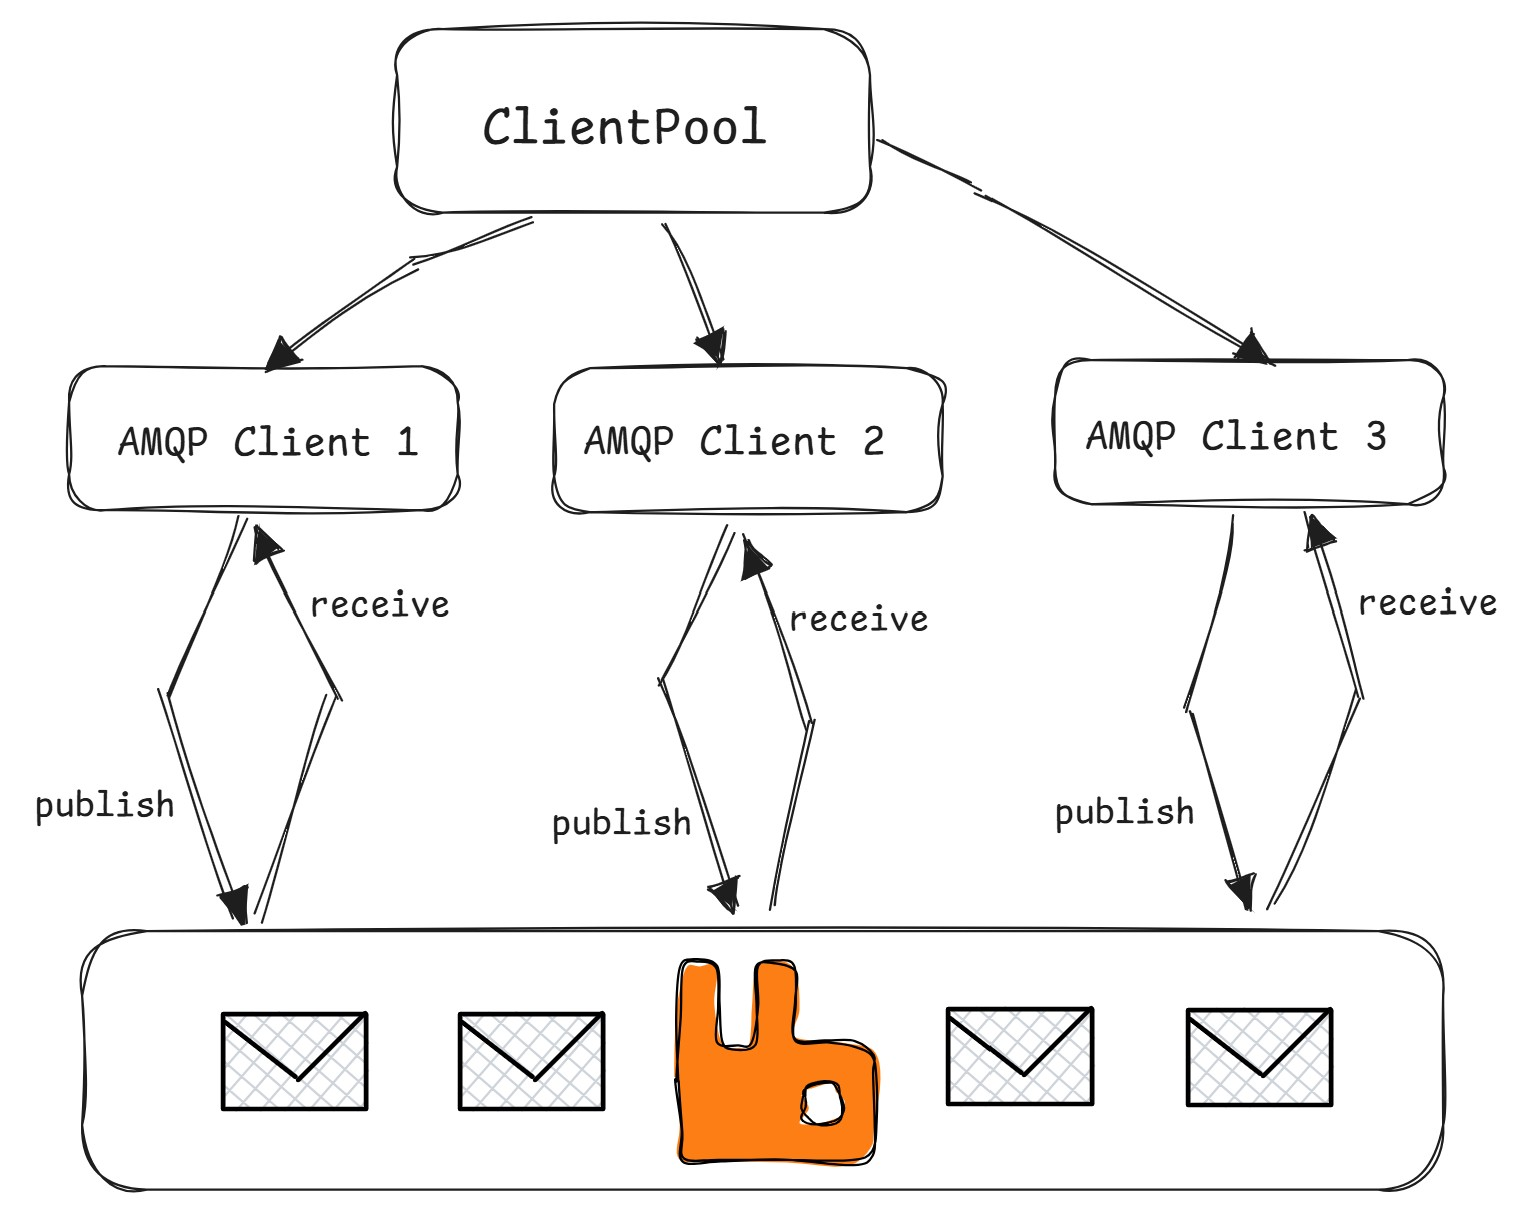
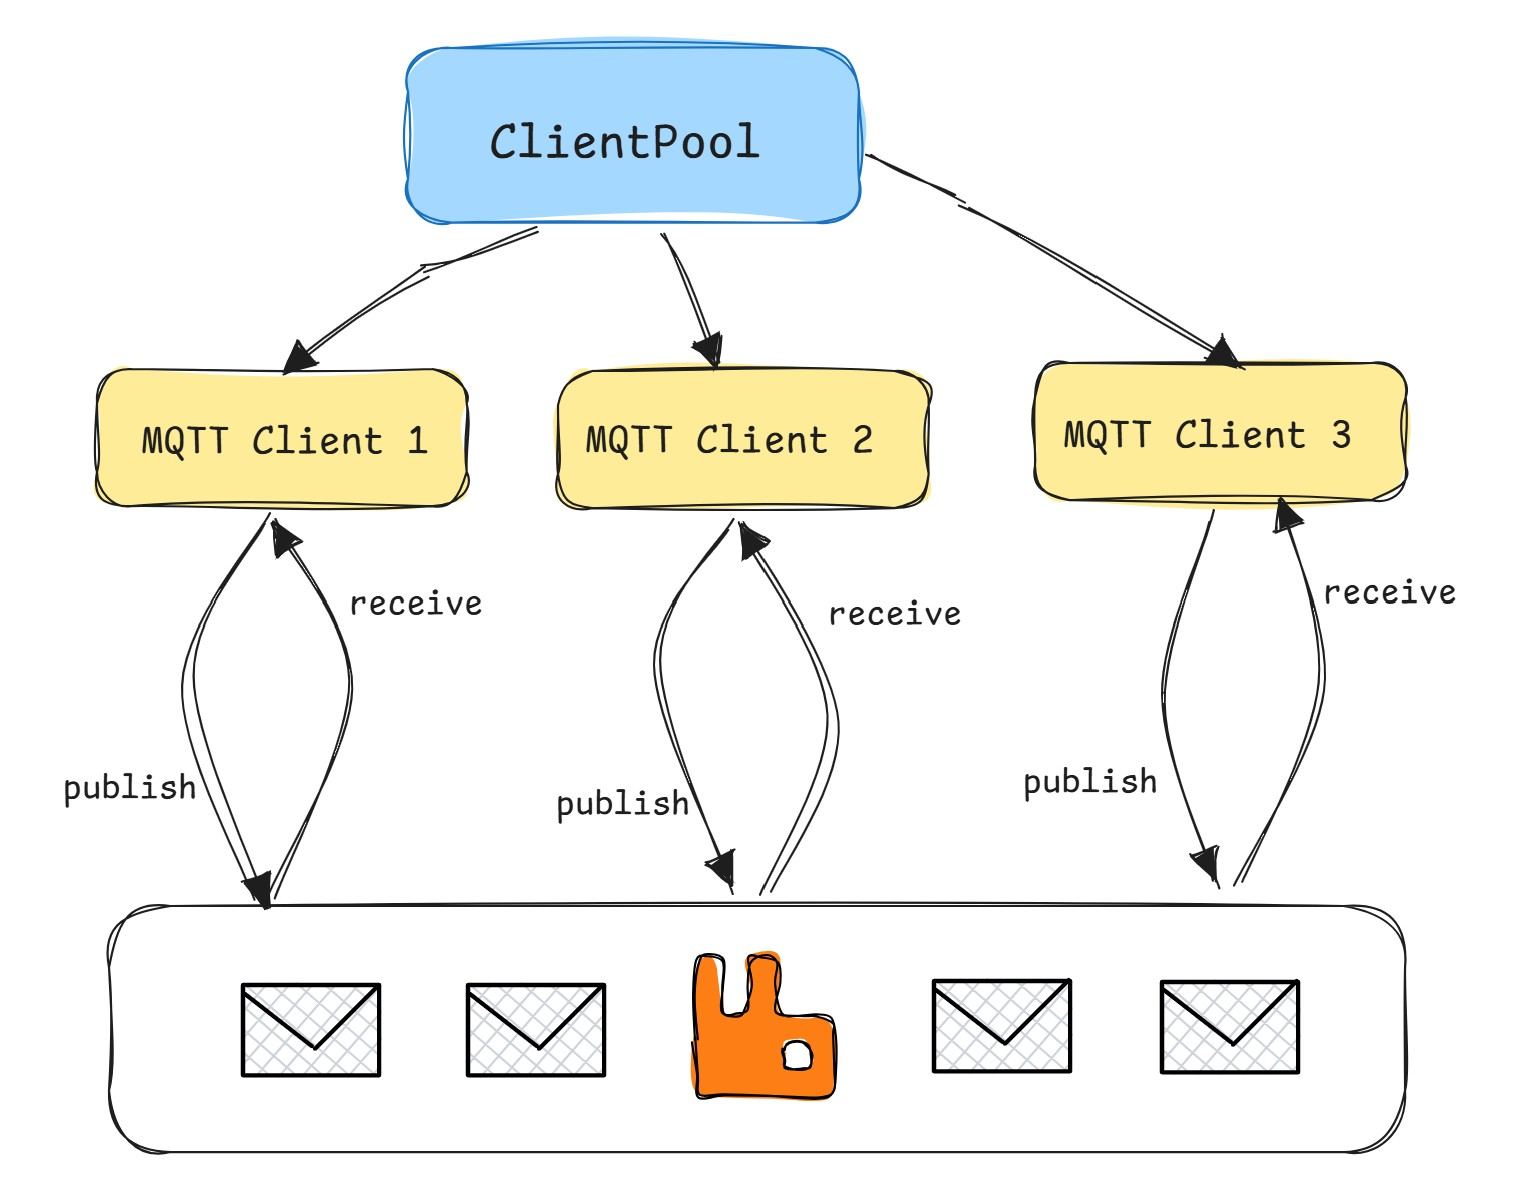
improved MQTT docs

Changed region(s): [[0.0, 0.0, 0.9882, 0.9867], [0.1235, 0.8017, 0.4014, 0.925], [0.6176, 0.1542, 0.7102, 0.2158]]

diff --git a/docs/protocols/mqtt.md b/docs/protocols/mqtt.md
@@ -5,6 +5,8 @@ sidebar_position: 3
 ---
 
 import MqttImage from './img/mqtt.jpg';
+import MqttClientPoolImage from './img/mqtt_client_pool.jpg';
+import MqttIndependentActorsImage from './img/mqtt_independent_actors.jpg';
 
 <center><img src={MqttImage} width="70%" height="70%" /></center>
 
@@ -91,3 +93,252 @@ using var mqtt = new MqttClient(new MqttFactory().CreateMqttClient());
 var originalClient = mqtt.Client;
 // highlight-end
 ```
+
+## Examples
+Here you will find some useful examples of working with the MQTT protocol and NBomber to cover different workloads.
+
+### Ping Pong Example
+This is a basic example meant to demonstrate the API usage. In this example, we create an MQTT client that:
+
+1. Connects to the broker
+2. Subscribes to its own topic (self topic) using the scenario instance ID (ctx.ScenarioInfo.InstanceId)
+3. Publishes a message to self topic
+4. Awaits and receives a message from the self topic
+5. Disconnects
+
+```csharp
+var payload = Data.GenerateRandomBytes(200);
+
+var scenario = Scenario.Create("mqtt_scenario", async ctx =>
+{
+    var topic = $"/clients/{ctx.ScenarioInfo.InstanceId}";
+    using var mqttClient = new MqttClient(new MqttClientFactory().CreateMqttClient());
+
+    var connect = await Step.Run("connect", ctx, async () =>
+    {
+        var options = new MqttClientOptionsBuilder()
+            .WithTcpServer("localhost")
+            .Build();
+
+        return await mqttClient.Connect(options);
+    });
+
+    var subscribe = await Step.Run("subscribe", ctx, async () =>
+    {
+        var response = await mqttClient.Subscribe(topic);
+        return response;
+    });
+
+    var publish = await Step.Run("publish", ctx, async () =>
+    {
+        var msg = new MqttApplicationMessageBuilder()
+            .WithTopic(topic)
+            .WithPayload(payload)
+            .Build();
+
+        return await mqttClient.Publish(msg);
+    });
+
+    var receive = await Step.Run("receive", ctx, async () =>
+    {
+        // pass the ScenarioCancellationToken to stop waiting for a response if the scenario finish event is triggered
+        var response = await mqttClient.Receive(ctx.ScenarioCancellationToken);
+        return response;
+    });
+
+    var disconnect = await Step.Run("disconnect", ctx, async () =>
+    {
+        var response = await mqttClient.Disconnect();
+        return response;
+    });
+
+    return Response.Ok();
+})
+```
+
+*You can find the complete example by this [link](https://github.com/PragmaticFlow/NBomber/blob/dev/examples/Demo/MQTT/PingPongMqttTest.cs).*
+
+### ClientPool Example
+
+<center><img src={MqttClientPoolImage} width="70%" height="70%" /></center>
+
+In this example, we create and initialize a list of MQTT clients, which remain active throughout the entire load test using a [ClientPool](../nbomber/client-pool) abstraction. Each client continuously and sequentially performs two steps: 
+- **publishes a message** to self topic
+- **receives a message** from the self topic
+
+All clients run in parallel to simulate multiple connected clients. This test measures how active concurrent connections impact the performance of the message broker. Also it measures both the throughput and latency for publish and receive operations.
+
+```csharp
+var clientPool = new ClientPool<MqttClient>();
+byte[] payload = [];
+
+var scenario = Scenario.Create("mqtt_scenario", async ctx =>
+{
+    // get a client from the pool by Scenario InstanceID
+    var mqttClient = clientPool.GetClient(ctx.ScenarioInfo.InstanceNumber);
+
+    var publish = await Step.Run("publish", ctx, async () =>
+    {
+        var topic = $"/clients/{ctx.ScenarioInfo.InstanceId}";
+        var msg = new MqttApplicationMessageBuilder()
+            .WithTopic(topic)
+            .WithPayload(payload)
+            .WithQualityOfServiceLevel(MqttQualityOfServiceLevel.AtMostOnce)
+            .Build();
+
+        return await mqttClient.Publish(msg);
+    });
+
+    var receive = await Step.Run("receive", ctx, async () =>
+    {
+        var response = await mqttClient.Receive(ctx.ScenarioCancellationToken);
+        return response;
+    });
+
+    return Response.Ok();
+})
+.WithInit(async context =>
+{
+    var config = context.CustomSettings.Get<CustomScenarioSettings>();
+    payload = Data.GenerateRandomBytes(config.MsgSizeBytes);
+
+    for (var i = 0; i < config.ClientCount; i++)
+    {
+        var topic = $"/clients/mqtt_scenario_{i}";
+        var clientId = $"mqtt_client_{i}";
+        var options = new MqttClientOptionsBuilder()
+            .WithTcpServer(config.MqttServerUrl)
+            .WithClientId(clientId)
+            .Build();
+
+        var mqttClient = new MqttClient(new MqttClientFactory().CreateMqttClient());
+        var connectResult = await mqttClient.Connect(options);
+
+        if (!connectResult.IsError)
+        {
+            await mqttClient.Subscribe(topic, MqttQualityOfServiceLevel.AtMostOnce);
+            clientPool.AddClient(mqttClient);
+        }
+        else
+            throw new Exception("client can't connect to the MQTT broker");
+
+        await Task.Delay(10);
+    }
+})
+.WithClean(ctx =>
+{
+    clientPool.DisposeClients(client => client.Dispose());
+    return Task.CompletedTask;
+});
+```
+
+*You can find the complete example by this [link](https://github.com/PragmaticFlow/NBomber/blob/dev/examples/Demo/MQTT/ClientPool/ClientPoolMqttExample.cs).*
+
+### Independent Actors Example
+
+<center><img src={MqttIndependentActorsImage} width="100%" height="100%" /></center>
+
+There could be situations where you have an independent Publisher/Writer and Consumer/Reader, each working separately. In such cases, you may want to measure both the throughput and the message latency from the publisher to the consumer. 
+
+This particular case is usually tricky to cover with any load testing framework.
+> Imagine two messages being published by two independent publishers **at the same time**, say at `"00:00:10"`. The consumer waits to receive the messages — the first received message will have its latency measured correctly, **but the second message will be processed immediately after the first one**. This will distort the latency measurement for the second message, making it appear as if there was zero delay.
+
+Example: 
+
+```csharp
+// It's a pseudo-code just to show how Publisher and Consumer scenarios could be modeled.
+// Publisher: sends messages to a topic
+var publish_scenario = Scenario.Create("publish_scenario", async ctx =>
+{
+    var payload = Data.GenerateRandomBytes(200);
+    
+    var topic = $"/clients/all";
+    var msg = new MqttApplicationMessageBuilder()
+        .WithTopic(topic)
+        .WithPayload(payload)
+        .WithQualityOfServiceLevel(MqttQualityOfServiceLevel.AtMostOnce)
+        .Build();
+
+    return await mqttClient.Publish(msg);    
+})
+.WithLoadSimulations(    
+    // we run 2 Publisher(s), which will send messages concurrently
+    // highlight-start
+    Simulation.KeepConstant(2, TimeSpan.FromSeconds(30)) 
+    // highlight-end
+);
+
+// Consumer: listens for messages and measures latency
+var consume_scenario = Scenario.Create("consume_scenario", async ctx =>
+{
+    var message = await mqttClient.Receive(); // The second message will be received immediately after the first one,
+                                              // because both messages were published at the same time. 
+                                              // This will distort the latency measurement for the second message,
+    return Response.Ok();                     // making it appear as if there was zero delay                                               
+})
+.WithLoadSimulations(    
+    // we run 1 Consumer
+    // highlight-start
+    Simulation.KeepConstant(1, TimeSpan.FromSeconds(30)) 
+    // highlight-end
+);
+
+NBomberRunner
+    .RegisterScenarios(publish_scenario, consume_scenario)
+    .Run();
+```
+
+:::info
+In order to fix this measurement, we need to do a few things:
+- On the Publisher side: each message should be enriched with a current `timestamp`.
+- On the Consumer side: we read the received message's `timestamp` and calculate the latency: 
+```csharp
+var customLatency = DateTime.UtcNow - msg.Timestamp
+```
+- We instruct NBomber to use the custom latency via `Response.Ok(customLatency: value)`
+:::
+
+Example: 
+
+```csharp
+var publish_scenario = Scenario.Create("publish_scenario", async ctx =>
+{    
+    // highlight-start
+    var timestamp = DateTimeOffset.UtcNow.ToUnixTimeMilliseconds();
+    // highlight-end
+
+    var msg = new MqttApplicationMessageBuilder()
+        .WithTopic("/clients/independentActors")
+        .WithPayload(payload)
+        .WithUserProperty("timestamp", timestamp.ToString())
+        .Build();
+
+    return await mqttClient.Publish(msg);    
+})
+.WithLoadSimulations(        
+    Simulation.KeepConstant(2, TimeSpan.FromSeconds(30))     
+);
+
+var consume_scenario = Scenario.Create("consume_scenario", async ctx =>
+{
+    var message = await mqttClient.Receive(ctx.ScenarioCancellationToken);
+
+    // Final latency is computed by subtracting the current time from the timestamp in the header.
+    var timestamp = message.Payload.Value.UserProperties.First(prop => prop.Name == "timestamp").Value;
+    var timestampMs = long.Parse(timestamp);
+    var latency = DateTimeOffset.UtcNow.ToUnixTimeMilliseconds() - timestampMs;
+
+    // highlight-start
+    return Response.Ok(customLatencyMs: latency, sizeBytes: message.SizeBytes);                                              
+    // highlight-end
+})
+.WithLoadSimulations(        
+    Simulation.KeepConstant(1, TimeSpan.FromSeconds(30))     
+);
+
+NBomberRunner
+    .RegisterScenarios(publish_scenario, consume_scenario)
+    .Run();
+```
+
+*You can find the complete example by this [link](https://github.com/PragmaticFlow/NBomber/tree/dev/examples/Demo/MQTT/IndependentActors).*

diff --git a/docs/protocols/amqp.md b/docs/protocols/amqp.md
@@ -73,17 +73,15 @@ await originalClient.ExchangeDeclareAsync(exchange: "myExchange", type: Exchange
 ```
 
 ## Examples
-
 Here you will find some useful examples of working with the AMQP protocol and NBomber to cover different workloads.
 
 ### Ping Pong Example
-
 This is a basic example meant to demonstrate the API usage. In this example, we create an AMQP client that:
 
 1. Connects to the broker
-2. Subscribes to its own queue using the scenario instance ID (ctx.ScenarioInfo.InstanceId)
-3. Publishes a message to this queue
-4. Awaits and receives a message from the queue
+2. Subscribes to its own queue (self topic) using the scenario instance ID (ctx.ScenarioInfo.InstanceId)
+3. Publishes a message to self topic
+4. Awaits and receives a message from the self topic
 5. Disconnects
 
 ```csharp
@@ -142,7 +140,7 @@ var scenario = Scenario.Create("ping_pong_scenario", async ctx =>
 
 <center><img src={AmqpClientPoolImage} width="70%" height="70%" /></center>
 
-In this example, we create and initialize a list of AMQP clients, which remain active throughout the entire load test using a [ClientPool](../nbomber/client-pool) abstraction. Each client continuously and sequentially performs two steps: it 
+In this example, we create and initialize a list of AMQP clients, which remain active throughout the entire load test using a [ClientPool](../nbomber/client-pool) abstraction. Each client continuously and sequentially performs two steps:
 - **publishes a message** to self topic
 - **receives a message** from the self topic
 

diff --git a/docs/protocols/http/restsharp.md b/docs/protocols/http/restsharp.md
@@ -10,6 +10,9 @@ import RestSharpImage from './img/restsharp.jpg';
 
 [RestSharp](https://restsharp.dev/) is a lightweight and easy-to-use HTTP client for .NET, designed to simplify sending HTTP requests and working with RESTful web services. If you prefer using RestSharp over the native .NET [HttpClient](https://learn.microsoft.com/en-us/dotnet/api/system.net.http.httpclient), NBomber provides [NBomber.RestSharp](https://github.com/PragmaticFlow/NBomber.RestSharp) plugin to work with it.
 
+:::warning
+This package is experimental and might be subject to breaking API changes in the future. While we intend to keep experimental packages as stable as possible, we may need to introduce breaking changes.
+:::
 :::info
 You can find the [source code here](https://github.com/PragmaticFlow/NBomber.RestSharp).
 
@@ -93,5 +96,5 @@ request.Method = Method.Head;
 var response = await client.Send(request);
 
 // or Send<T>
-// var response = await client.Send<T>(request);
+var response = await client.Send<T>(request);
 ```
